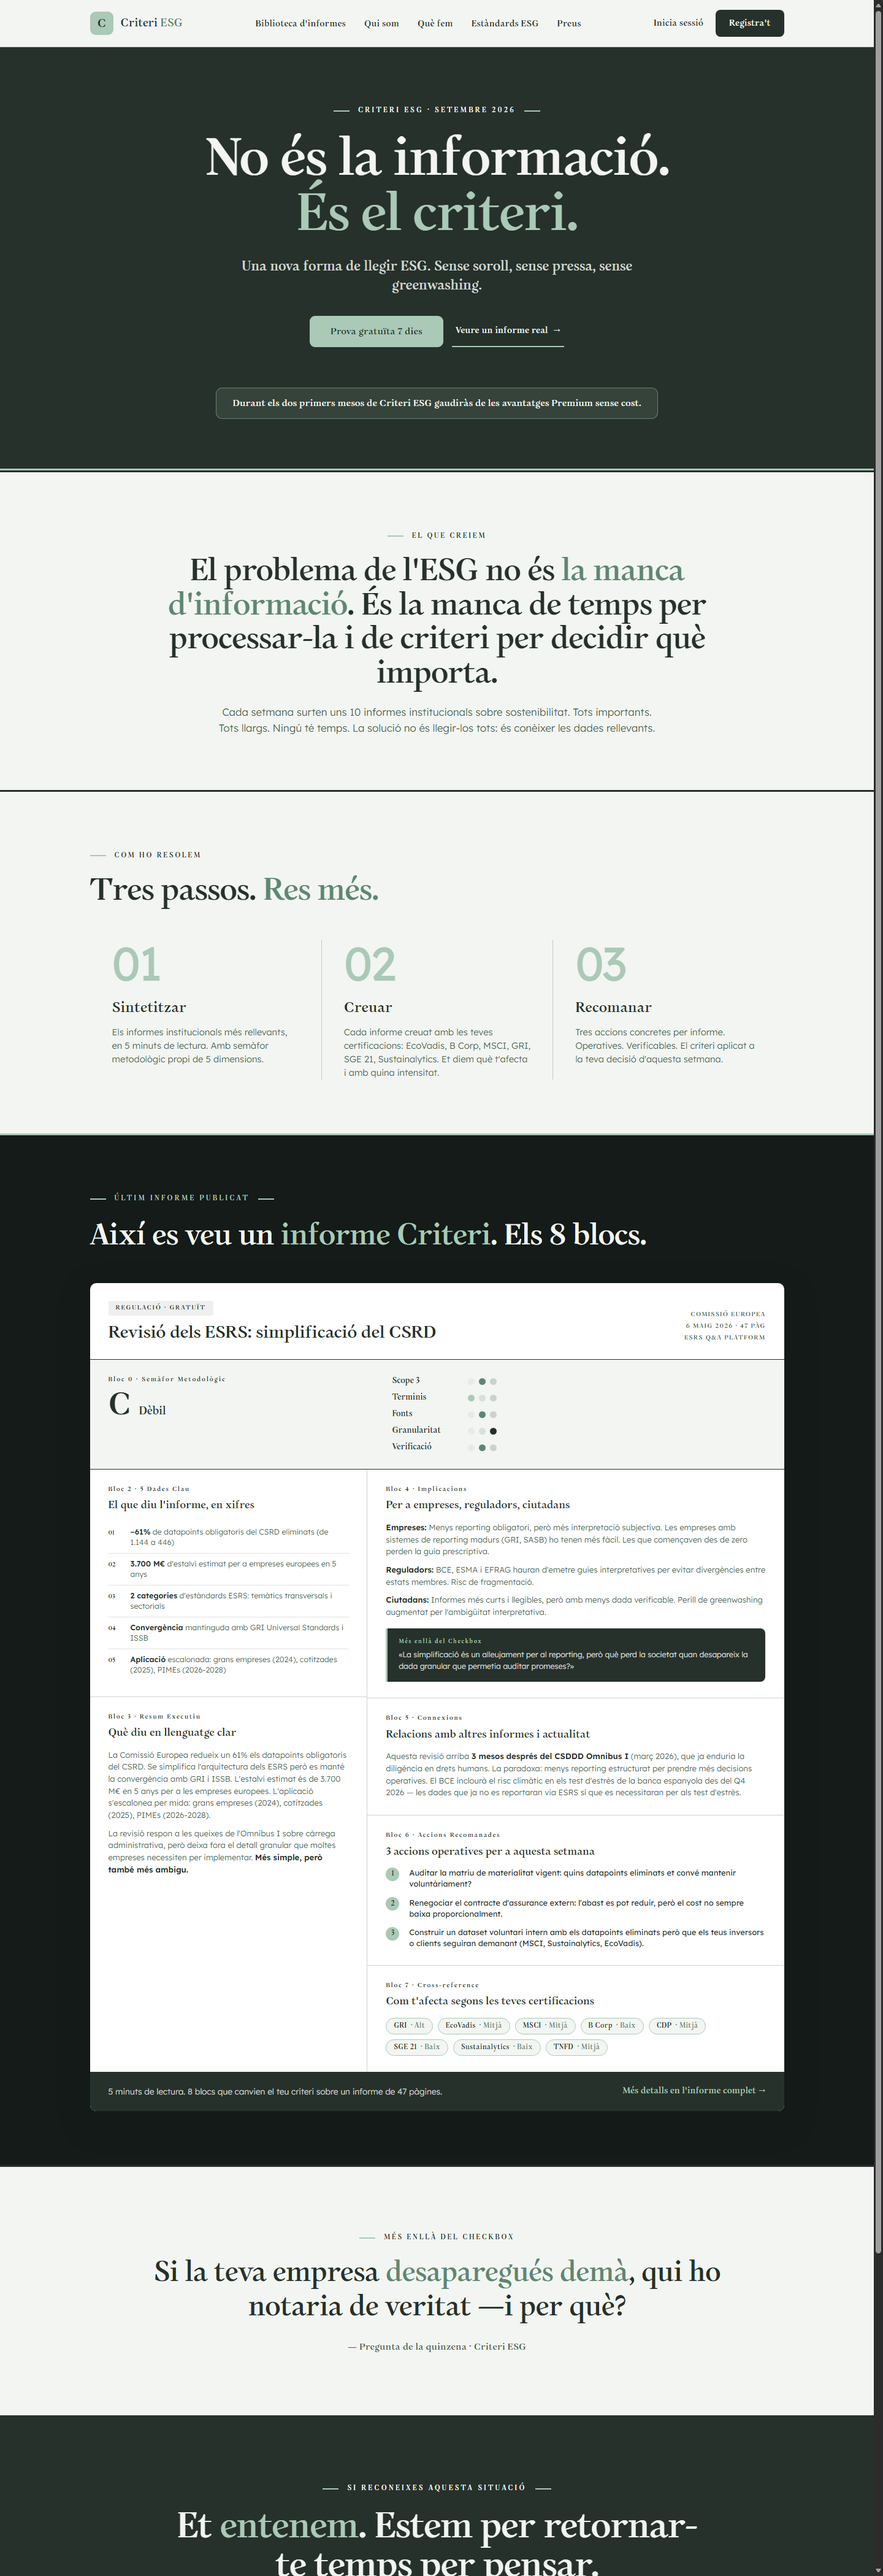
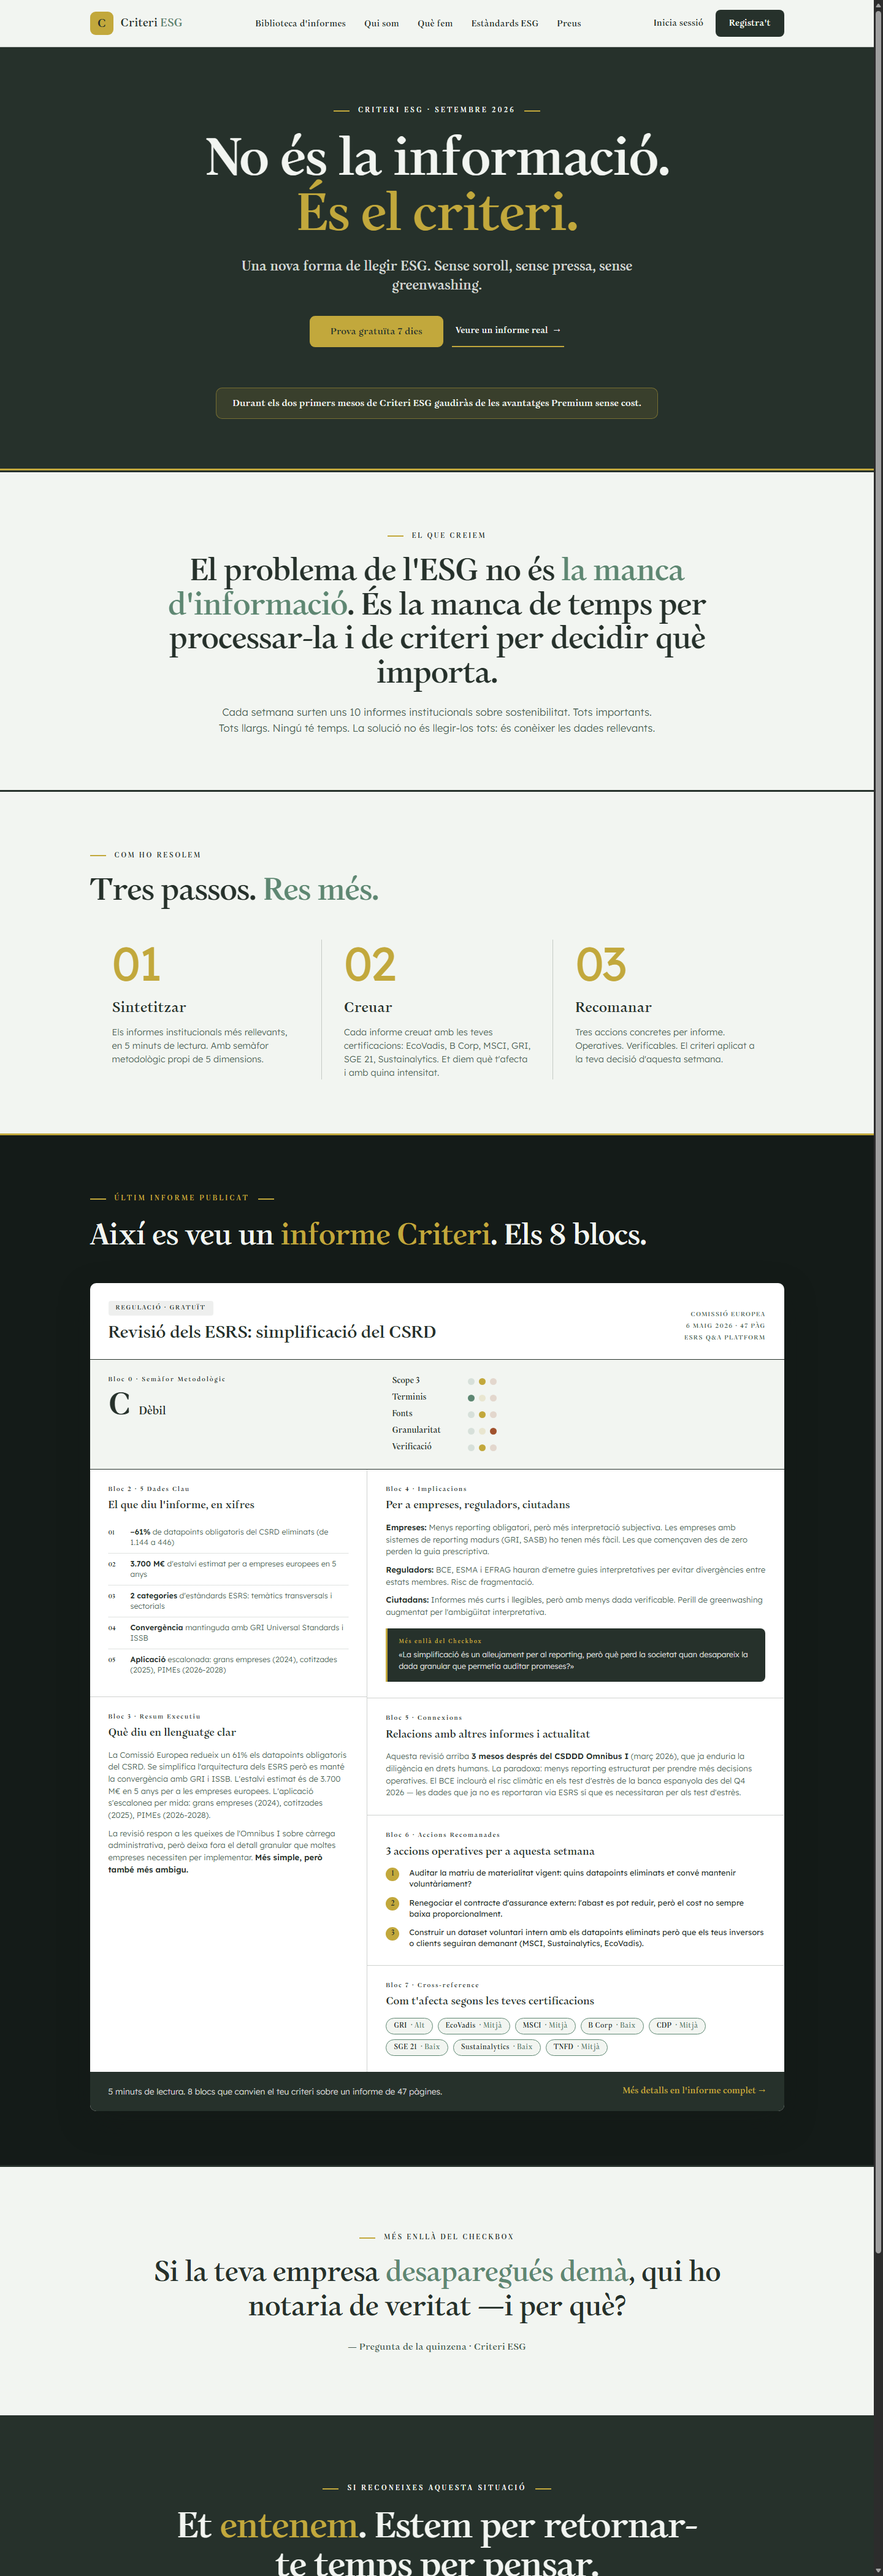
style: salvia v2 - highlight mostassa suau (C2A83C), xips en accent, semafor desacoblat

diff --git a/assets/redisseny-web/mockup-homepage-paleta-salvia.html b/assets/redisseny-web/mockup-homepage-paleta-salvia.html
@@ -12,7 +12,7 @@
   :root {
     --ink: #26312B;          /* text principal */
     --accent: #5E8772;       /* accent mig */
-    --highlight: #AAC9B6;    /* highlights + logo */
+    --highlight: #C2A83C;    /* highlights + logo (mostassa suau) */
     --bg: #F2F5F1;           /* fons */
     --bg-paper: #FFFFFF;
     --ink-soft: #4A5F53;     /* derivat: text secundari */
@@ -124,8 +124,8 @@
   .hero .btn-line { background: transparent; color: var(--bg); padding: 14px 6px; border-bottom: 2px solid var(--highlight); border-radius: 0; font-weight: 400; }
   .banner {
     margin-top: 40px; padding: 14px 26px;
-    background: rgba(170, 201, 182, 0.12);
-    border: 1px solid rgba(170, 201, 182, 0.45);
+    background: rgba(194, 168, 60, 0.12);
+    border: 1px solid rgba(194, 168, 60, 0.45);
     border-radius: var(--radius);
     font-size: 0.95rem; font-weight: 400; color: var(--bg);
   }
@@ -214,9 +214,9 @@
   .dim .dname { font-size: 0.8rem; font-weight: 400; }
   .dots { display: flex; gap: 7px; }
   .dot { width: 11px; height: 11px; border-radius: 50%; }
-  .dot.g { background: var(--highlight); }
-  .dot.y { background: var(--accent); }
-  .dot.r { background: var(--ink); }
+  .dot.g { background: var(--accent); }          /* verd: salvia */
+  .dot.y { background: var(--highlight); }       /* groc: mostassa */
+  .dot.r { background: #A0522D; }                /* vermell: terrós */
   .dot.off { opacity: 0.18; }
 
   .paper-body { display: grid; grid-template-columns: minmax(0, 1fr) minmax(0, 1.5fr); }
@@ -256,7 +256,7 @@
   .chips { display: flex; flex-wrap: wrap; gap: 8px; }
   .chip {
     font-size: 0.68rem; font-weight: 400; letter-spacing: 0.04em;
-    background: var(--bg); border: 1px solid var(--highlight); color: var(--ink);
+    background: var(--bg); border: 1px solid var(--accent); color: var(--ink);
     padding: 5px 12px; border-radius: 20px;
   }
   .chip span { color: var(--accent); font-weight: 400; margin-left: 6px; }
